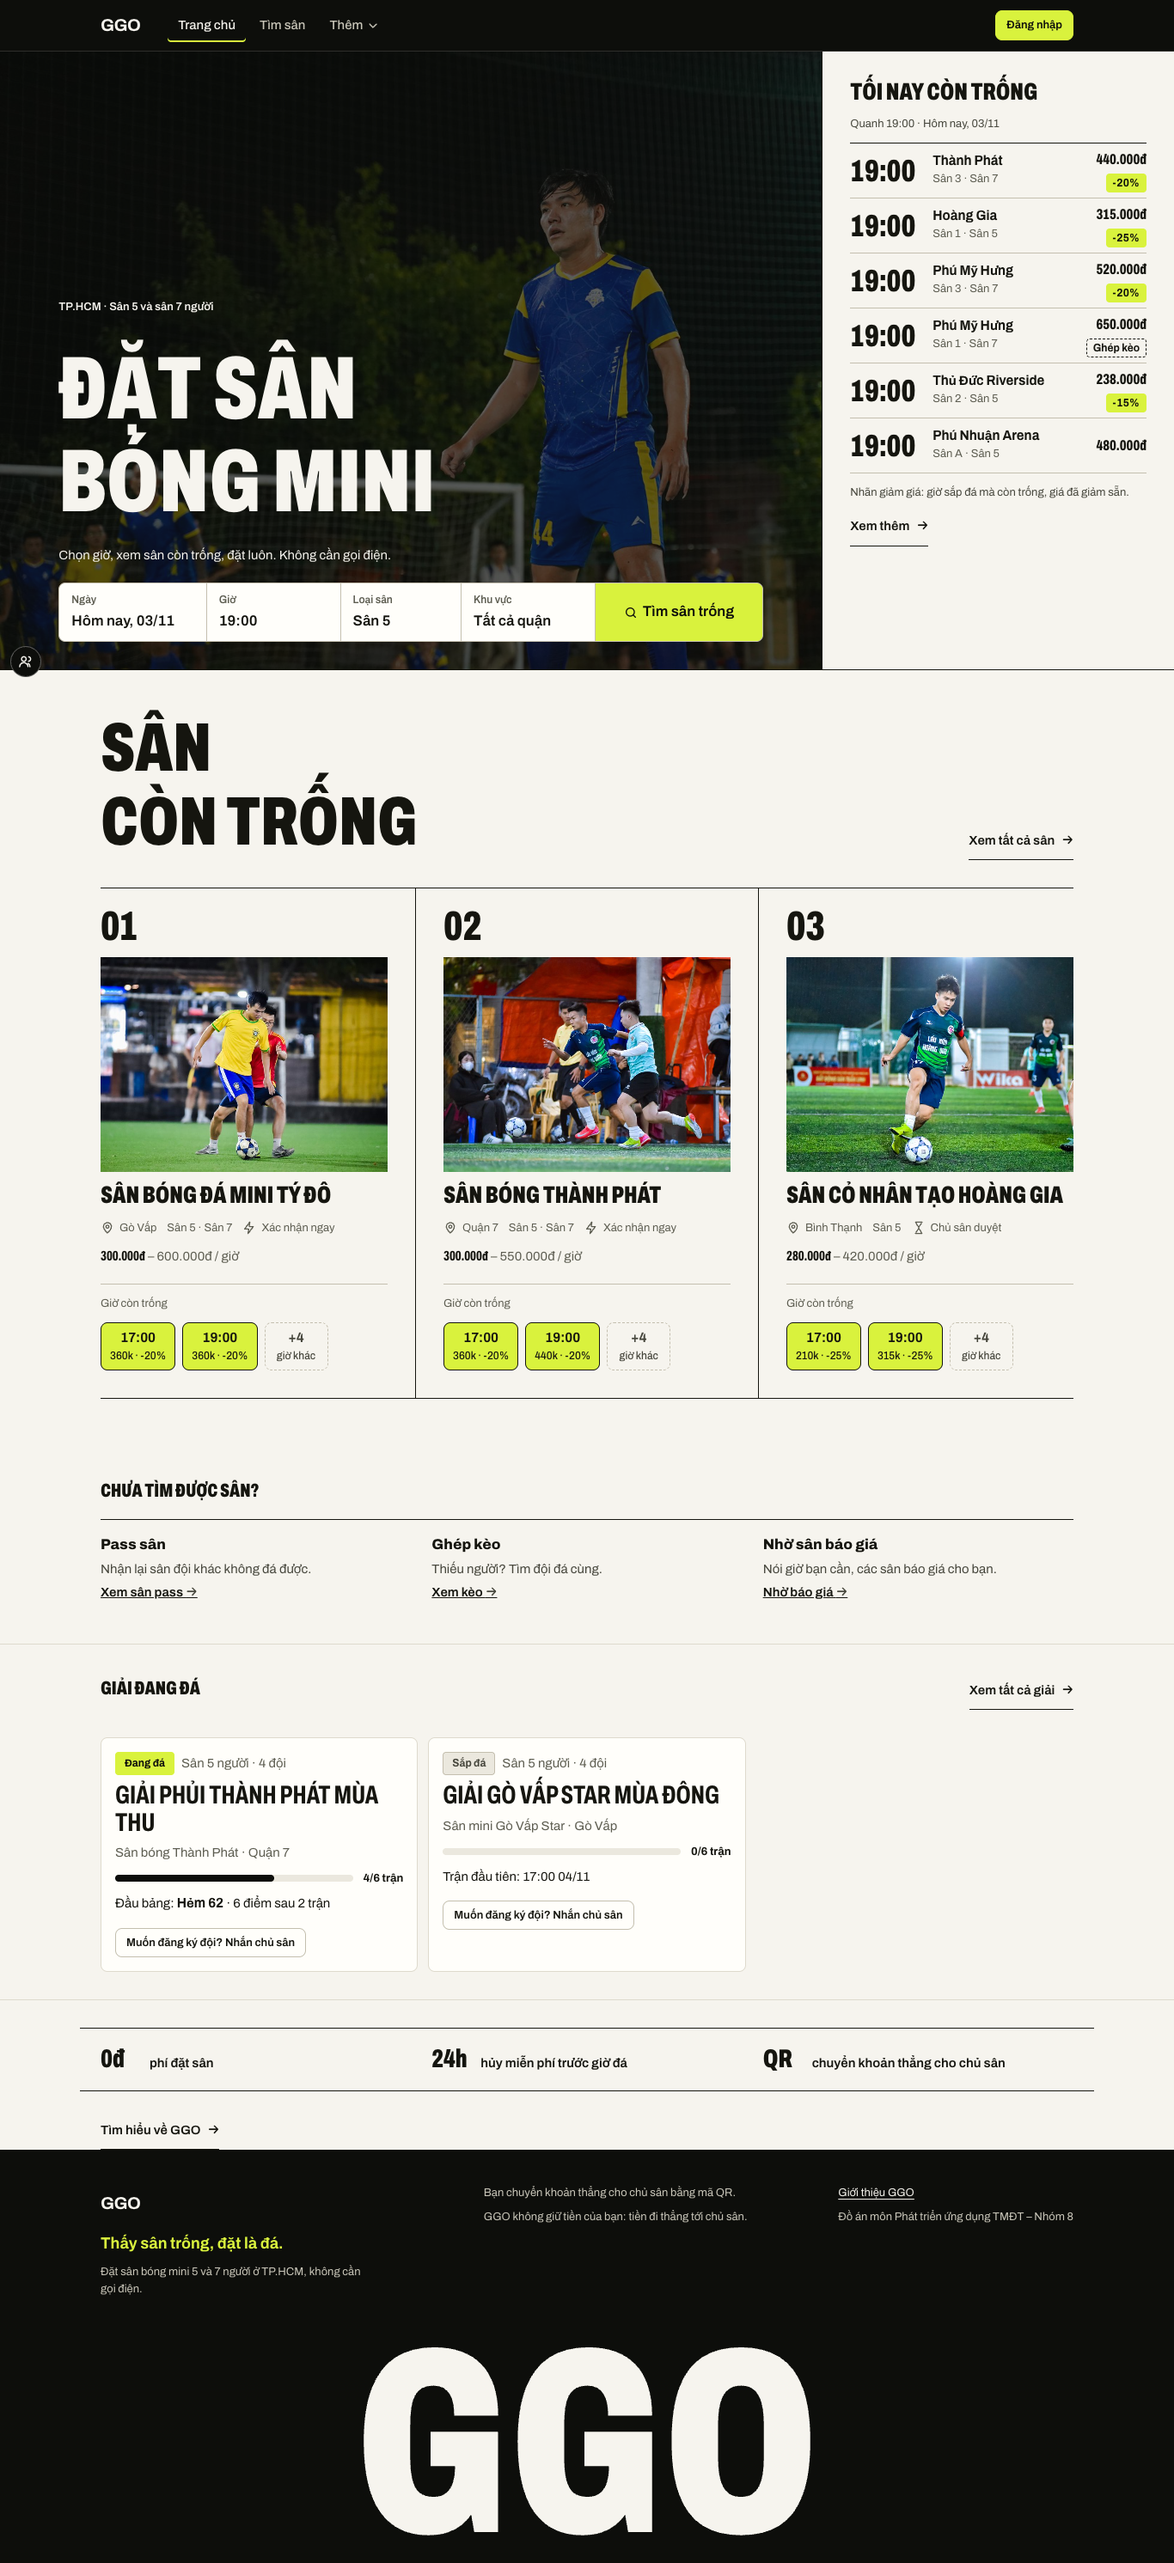
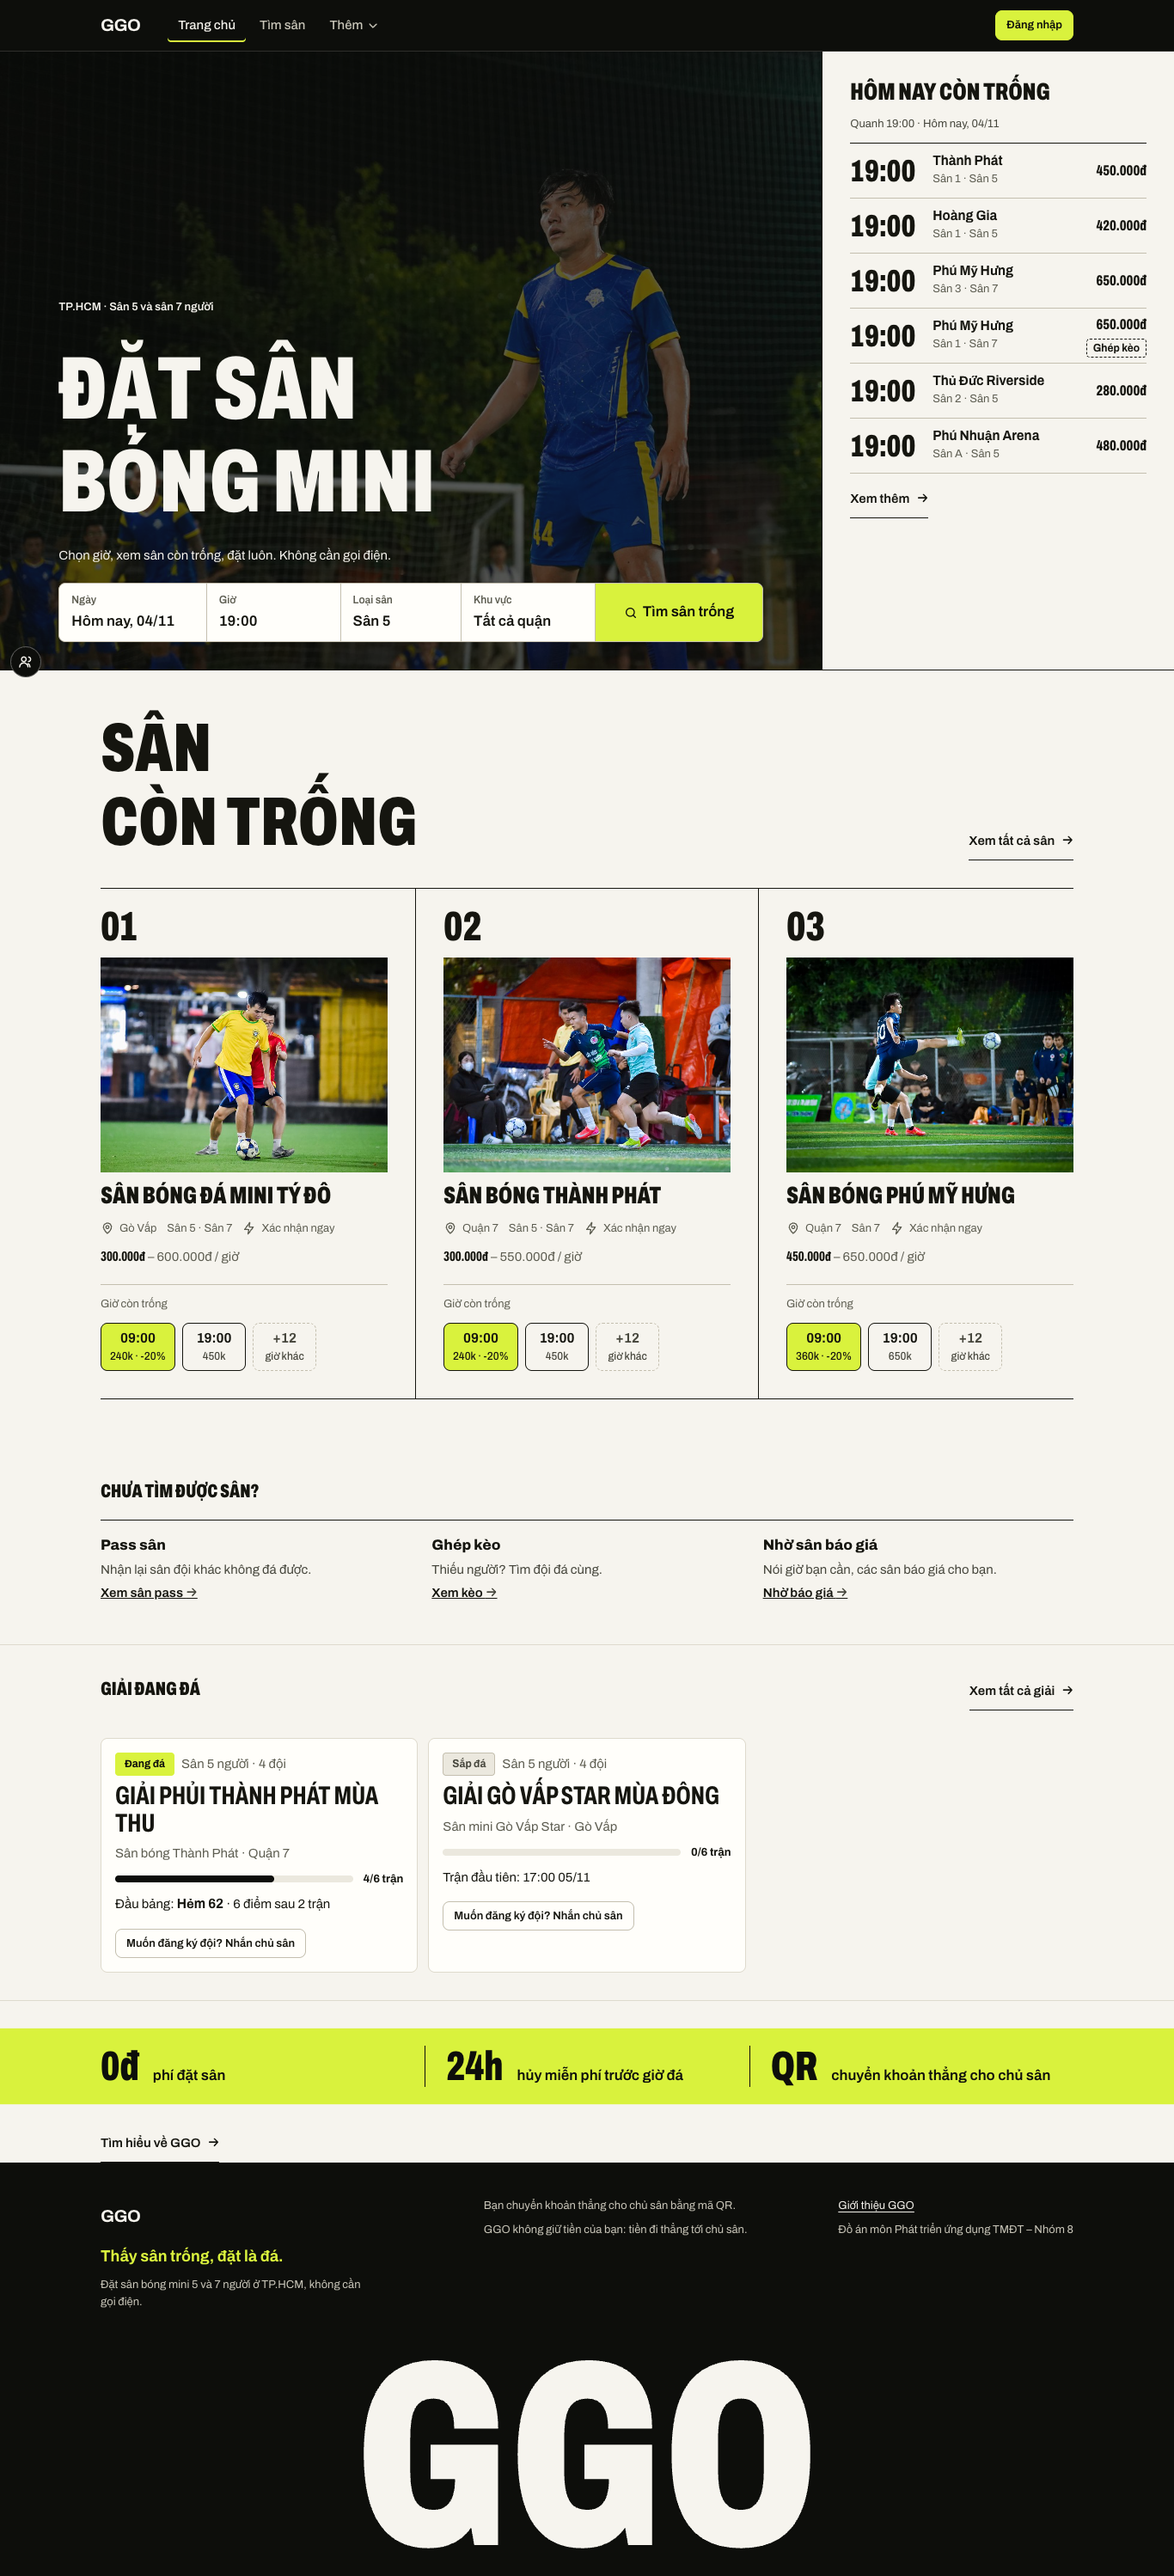
Dải 0đ · 24h · QR cuối trang chủ trở lại nền lime tràn bề ngang, chữ số lớn và vạch chia đen; chụp lại ảnh trang chủ và cập nhật chiều dài trang trong báo cáo

diff --git a/public/css/app.css b/public/css/app.css
@@ -2144,28 +2144,38 @@ body:has(.booking-bar) .toast-stack {
   }
 }
 
-/* Ba điều cần biết trước khi đặt: một hàng chữ nhỏ ở cuối trang */
+/* Ba điều cần biết trước khi đặt: một dải lime gọn ở cuối trang, tràn hết bề ngang như dải số cũ.
+   Nền tràn bằng box-shadow + clip-path để giữ ul trong .container (chữ thẳng lề với phần trên). */
 .home-facts {
   display: grid;
-  gap: var(--sp-3);
   margin-block: var(--sp-8) 0;
-  padding-block: var(--sp-5);
+  padding-block: var(--sp-2);
   list-style: none;
-  border-block: 1px solid var(--text);
+  background: var(--lime-400);
+  color: var(--pitch-950);
+  box-shadow: 0 0 0 100vmax var(--lime-400);
+  clip-path: inset(0 -100vmax);
 }
 .home-facts li {
   display: flex;
   align-items: baseline;
-  gap: var(--sp-3);
+  gap: var(--sp-4);
+  padding-block: var(--sp-3);
+  border-top: 1px solid var(--pitch-950);
+}
+.home-facts li:first-child {
+  border-top: 0;
 }
 .home-facts b {
-  min-width: 3.2ch;
+  flex: none;
+  width: 3.6ch;
   font-stretch: var(--stretch-cond);
-  font-size: var(--fs-2xl);
+  font-size: clamp(2.5rem, 11vw, 3rem);
   font-weight: 850;
   line-height: 1;
 }
 .home-facts span {
+  font-size: var(--fs-lg);
   font-weight: 600;
 }
 .tonight-head .h2 span {
@@ -2180,7 +2190,19 @@ body:has(.booking-bar) .toast-stack {
 @media (min-width: 900px) {
   .home-facts {
     grid-template-columns: repeat(3, minmax(0, 1fr));
-    gap: var(--sp-6);
+    padding-block: var(--sp-5);
+  }
+  .home-facts li {
+    padding: 0 var(--sp-6);
+    border-top: 0;
+    border-left: 1px solid var(--pitch-950);
+  }
+  .home-facts li:first-child {
+    padding-left: 0;
+    border-left: 0;
+  }
+  .home-facts b {
+    width: auto;
   }
 }
 

diff --git a/docs/buoi2/bao-cao.md b/docs/buoi2/bao-cao.md
@@ -199,7 +199,7 @@ Các trang liên kết CSS và ảnh bằng đường dẫn **tính từ gốc w
 | Thành phần | Giá trị | Dùng cho |
 | --- | --- | --- |
 | Nền tối `--pitch-950` | `#0d0e0b` | Header, footer, dải nổi bật |
-| Lime `--lime-400` | `#d9f23d` | Nút chính, nhãn giảm giá, vòng focus trên nền tối |
+| Lime `--lime-400` | `#d9f23d` | Nút chính, nhãn giảm giá, vòng focus trên nền tối, dải "0đ · 24h · QR" cuối trang chủ |
 | Xanh sân `--pitch-500` | `#1f8a57` | Viền ô đang chọn |
 | Nền trang `--bg` | `#f6f4ee` | Nền chung |
 | Chữ `--text` | `#15150f` | Chữ chính, vòng focus trên nền sáng |
@@ -459,7 +459,7 @@ Nhóm đo bằng Playwright trên Chrome, chạy bản dữ liệu mẫu ở má
 
 **Cách sửa** (đã có trên `main`, bản mẫu đã đưa lên ggo-datsan.pages.dev):
 
-- **Trang chủ:** chữ lớn nhất là "Đặt sân bóng mini"; giờ còn trống nằm ngay màn đầu; bỏ dải chữ chạy và khối giờ chót trùng lặp.
+- **Trang chủ:** chữ lớn nhất là "Đặt sân bóng mini"; giờ còn trống nằm ngay màn đầu; bỏ dải chữ chạy và khối giờ chót trùng lặp. Ba điều cần biết (0đ phí đặt sân, hủy miễn phí 24h, QR chuyển thẳng cho chủ sân) gọn lại thành một dải nền lime ở cuối trang.
 - **Menu:** mục **Thêm** gom Pass sân, Ghép kèo, Giải đấu và Nhờ báo giá; header không còn hiện "Đang tải…".
 - **Kết quả tìm sân:** hiện luôn các giờ trống trên thẻ; bộ lọc thu gọn thành một dòng tóm tắt (bấm "Đổi" để mở). Thanh đặt sân ghi tên sân, giờ và giá.
 - **Đăng nhập:** nhập số điện thoại hoặc email; trang nói rõ đang đặt sân nào, giờ nào; đăng nhập xong tự quay lại hộp xác nhận. Đăng ký còn 3 ô.
@@ -474,7 +474,7 @@ Nhóm đo bằng Playwright trên Chrome, chạy bản dữ liệu mẫu ở má
 | --- | --- | --- |
 | Số lần bấm cho tới khi có đơn (kèm số ô phải nhập) | 6 + 2 ô → 5 + 2 ô | 6 + 2 ô → 5 + 2 ô |
 | Giờ trống đầu tiên ở trang kết quả, tính theo chiều cao màn hình (trên 100% là phải cuộn) | 126% → 72% | 99% → 68% |
-| Chiều dài trang chủ | 4731 → 3730 px | 3779 → 2983 px |
+| Chiều dài trang chủ | 4731 → 3787 px | 3779 → 2997 px |
 | Header và logo hiện ra sau | 284 → 64 ms | 109 → 44 ms |
 
 Ở trang sân, 390 × 844 px: hàng giờ đầu tiên trước đây nằm ở y 750–816 và bị thanh đặt sân (y 763) che một phần; nay ở y 627–693 (đo sau khi chip ngày cao thêm lên 44 px), không bị che vì thanh đặt sân vẫn ở y 763. Ở 1366 px không đổi (y 489–553).

diff --git a/docs/buoi2/nop-bai.md b/docs/buoi2/nop-bai.md
@@ -172,7 +172,7 @@ Một ghi nhận khác, không phải lỗi: `docs/TASKS.md` mục T6 ghi "Đã 
 
 **Cách sửa** (đã có trên `main`, bản mẫu đã đưa lên ggo-datsan.pages.dev):
 
-- **Trang chủ:** chữ lớn nhất là "Đặt sân bóng mini"; giờ còn trống nằm ngay màn đầu; bỏ dải chữ chạy và khối giờ chót trùng lặp.
+- **Trang chủ:** chữ lớn nhất là "Đặt sân bóng mini"; giờ còn trống nằm ngay màn đầu; bỏ dải chữ chạy và khối giờ chót trùng lặp. Ba điều cần biết (0đ phí đặt sân, hủy miễn phí 24h, QR chuyển thẳng cho chủ sân) gọn lại thành một dải nền lime ở cuối trang.
 - **Menu:** mục **Thêm** gom Pass sân, Ghép kèo, Giải đấu và Nhờ báo giá; header không còn hiện "Đang tải…".
 - **Kết quả tìm sân:** hiện luôn các giờ trống trên thẻ; bộ lọc thu gọn thành một dòng tóm tắt (bấm "Đổi" để mở). Thanh đặt sân ghi tên sân, giờ và giá.
 - **Đăng nhập:** nhập số điện thoại hoặc email; trang nói rõ đang đặt sân nào, giờ nào; đăng nhập xong tự quay lại hộp xác nhận. Đăng ký còn 3 ô.
@@ -187,7 +187,7 @@ Một ghi nhận khác, không phải lỗi: `docs/TASKS.md` mục T6 ghi "Đã 
 | --- | --- | --- |
 | Số lần bấm cho tới khi có đơn (kèm số ô phải nhập) | 6 + 2 ô → 5 + 2 ô | 6 + 2 ô → 5 + 2 ô |
 | Giờ trống đầu tiên ở trang kết quả, tính theo chiều cao màn hình (trên 100% là phải cuộn) | 126% → 72% | 99% → 68% |
-| Chiều dài trang chủ | 4731 → 3730 px | 3779 → 2983 px |
+| Chiều dài trang chủ | 4731 → 3787 px | 3779 → 2997 px |
 | Header và logo hiện ra sau | 284 → 64 ms | 109 → 44 ms |
 
 Ở trang sân, 390 × 844 px: hàng giờ đầu tiên trước đây nằm ở y 750–816 và bị thanh đặt sân (y 763) che một phần; nay ở y 627–693 (đo sau khi chip ngày cao thêm lên 44 px), không bị che vì thanh đặt sân vẫn ở y 763. Ở 1366 px không đổi (y 489–553).
